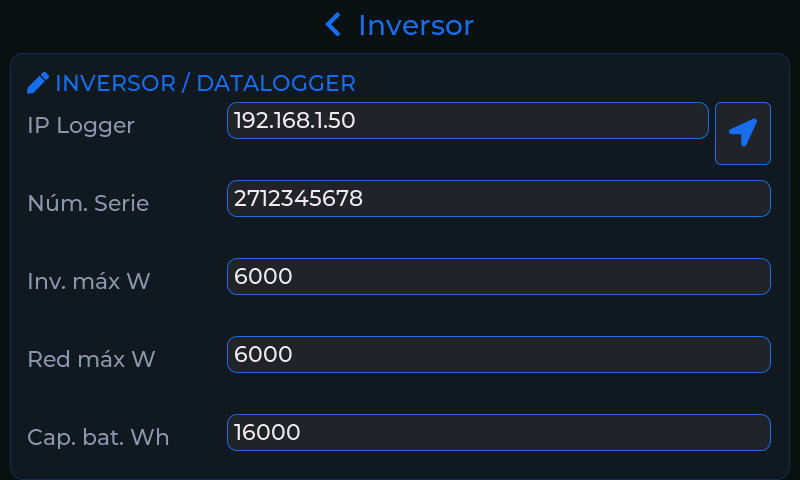
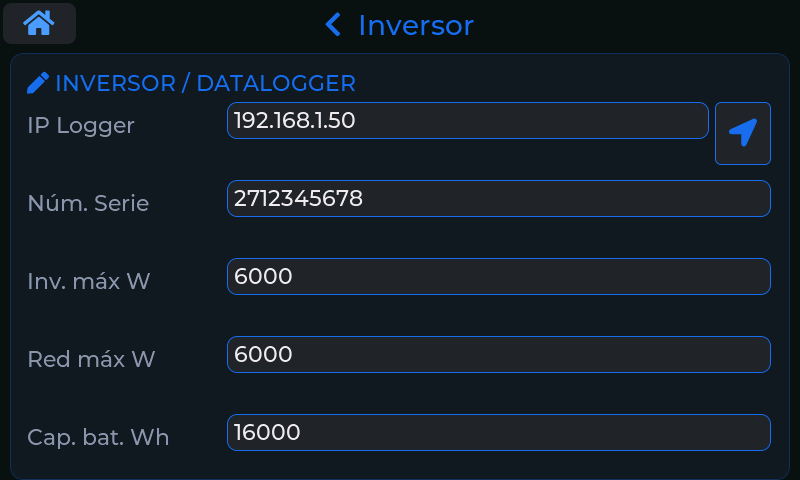
feat: botón de inicio, barra de navegación reordenada y arreglo del doble toque con el teclado
Casa en el extremo izquierdo y calendario en el derecho, con las flechas dentro.
El doble toque ya no se detecta con el teclado abierto. El subtítulo de Estadísticas
se reduce si no cabe. render.sh del simulador falla si no compila.

Claude-Session: https://claude.ai/code/session_01GTcuUXT4PcCQKxnsb58b1A

Changed region(s): [[0.0, 0.0, 0.0938, 0.0938]]

diff --git a/src/stats_screen.cpp b/src/stats_screen.cpp
@@ -160,6 +160,24 @@ static void make_legend_row(lv_obj_t* p, int x, int y, lv_color_t col,
 }
 
 // ── Renderizado central ───────────────────────────────────────────────────
+// El subtítulo de cada columna (título + autosuficiencia / CO2) debe caber en su mitad de la
+// pantalla: si no cabe a tamaño normal se reduce (escala alrededor de su centro) lo justo
+static void fit_subtitle(lv_obj_t* lbl, int col) {
+    // Ancho propio (sin saltar de línea), centrado en su columna y escalado desde su centro
+    lv_obj_set_width(lbl, LV_SIZE_CONTENT);
+    lv_obj_update_layout(lbl);
+    const int w = lv_obj_get_width(lbl), h = lv_obj_get_height(lbl);
+    const int avail = STATS_COL_W - SX(6);
+    // El cuadro sin escalar no debe salirse de la pantalla (provocaría una barra de scroll)
+    int x = col * STATS_COL_W + (STATS_COL_W - w) / 2;
+    if (x > SCREEN_WIDTH - w) x = SCREEN_WIDTH - w;
+    if (x < 0) x = 0;
+    lv_obj_set_x(lbl, x);
+    lv_obj_set_style_transform_pivot_x(lbl, w / 2, 0);
+    lv_obj_set_style_transform_pivot_y(lbl, h / 2, 0);
+    lv_obj_set_style_transform_scale(lbl, w > avail ? avail * 256 / w : 256, 0);
+}
+
 static void render_stats(float pv, float exp_k, float imp,
                           float load, float bchg, float bdis) {
     float pv_direct = load - bdis - imp;
@@ -189,13 +207,14 @@ static void render_stats(float pv, float exp_k, float imp,
         lv_label_set_text_fmt(pro_leg_pct[i], "%.1f%%",   pp);
     }
 
-    // DEYE-35: autosuficiencia junto al título del consumo y CO2 evitado junto al de la producción
+    // DEYE-35: autosuficiencia junto al título del consumo y CO2 ahorrado junto al de la producción
     const float asuf = self_sufficiency_pct(load, imp);
     if (asuf >= 0) lv_label_set_text_fmt(s_lbl_sub[0], "CONSUMO - autosuficiencia %.0f%%", asuf);
     else           lv_label_set_text(s_lbl_sub[0], "CONSUMO");
     const float co2 = co2_avoided_kg(pv);
-    if (co2 >= 0.05f) lv_label_set_text_fmt(s_lbl_sub[1], "PRODUCCI\xC3\x93N - CO2 evitado %.1f kg", co2);
+    if (co2 >= 0.05f) lv_label_set_text_fmt(s_lbl_sub[1], "PRODUCCI\xC3\x93N - CO2 ahorrado %.1f kg", co2);
     else              lv_label_set_text(s_lbl_sub[1], "PRODUCCI\xC3\x93N");
+    for (int c = 0; c < 2; c++) fit_subtitle(s_lbl_sub[c], c);
 
     lv_obj_add_flag(s_no_data, LV_OBJ_FLAG_HIDDEN);
 }
@@ -333,17 +352,17 @@ void stats_screen_init(lv_obj_t* parent) {
     lv_obj_set_style_bg_opa(parent, LV_OPA_COVER, 0);
 
     // ── Barra de navegación ───────────────────────────────────────────────
-    s_btn_prev = nav_btn(parent, SX(2), SY(2), NAV_BTN_W, NAV_BTN_H,
+    // [casa (home_button)][‹] título [›][calendario]
+    s_btn_prev = nav_btn(parent, NAV_PREV_X, SY(2), NAV_BTN_W, NAV_BTN_H,
                         LV_SYMBOL_LEFT, prev_cb);
 
     // Botón →
-    s_btn_next = nav_btn(parent, SCREEN_WIDTH-NAV_BTN_W-SX(2), SY(2),
+    s_btn_next = nav_btn(parent, NAV_NEXT_X, SY(2),
                         NAV_BTN_W, NAV_BTN_H, LV_SYMBOL_RIGHT, next_cb);
 
-    // Botón calendario — entre label y →
-    lv_obj_t* btn_cal = nav_btn(parent,
-        SCREEN_WIDTH - NAV_BTN_W - SX(4) - SX(34), SY(2),
-        SX(34), NAV_BTN_H, LV_SYMBOL_CALENDAR, nullptr);
+    // Botón calendario, en el extremo derecho
+    lv_obj_t* btn_cal = nav_btn(parent, NAV_CAL_X, SY(2),
+        NAV_CAL_W, NAV_BTN_H, LV_SYMBOL_CALENDAR, nullptr);
     lv_obj_add_event_cb(btn_cal, [](lv_event_t*) {
         calendar_show(
             day_epoch_from_offset(s_offset),
@@ -362,9 +381,9 @@ void stats_screen_init(lv_obj_t* parent) {
 
     // Label de fecha — ancho reducido para dejar sitio al botón cal
     s_lbl_date = lv_label_create(parent);
-    lv_obj_set_pos(s_lbl_date, NAV_BTN_W+SX(4), SY(7));
+    lv_obj_set_pos(s_lbl_date, NAV_PREV_X + NAV_BTN_W + SX(4), SY(7));
     lv_obj_set_width(s_lbl_date,
-        SCREEN_WIDTH - 2*NAV_BTN_W - SX(34) - SX(10));
+        NAV_NEXT_X - SX(4) - (NAV_PREV_X + NAV_BTN_W + SX(4)));
     lv_obj_set_style_text_align(s_lbl_date, LV_TEXT_ALIGN_CENTER, 0);
     lv_obj_set_style_text_font(s_lbl_date, &FONT_NORMAL, 0);
     lv_obj_set_style_text_color(s_lbl_date, C_WHITE, 0);

diff --git a/src/main.cpp b/src/main.cpp
@@ -22,6 +22,7 @@
 #include "psram_cache.h"
 #include "backlight.h"
 #include "pagination_dots.h"
+#include "home_button.h"
 #include "screen_banner.h"
 #include "web_alerts.h"
 #include "app_state.h"
@@ -475,6 +476,12 @@ void setup() {
 
     pagination_dots_init(g_main_screen, 5);
 
+    // Botón «inicio»: visible fuera del dashboard (sustituirá al doble toque)
+    home_button_init(g_main_screen, []() {
+        if (g_tileview && g_tile_dash)
+            lv_tileview_set_tile(g_tileview, g_tile_dash, LV_ANIM_ON);
+    });
+
     // DEYE-56: tocar un punto de paginación salta a esa pantalla
     pagination_dots_set_handler([](int idx) {
         lv_obj_t* tiles[] = {g_tile_dash, g_tile_chart,
@@ -493,12 +500,13 @@ void setup() {
             if (tiles[i] == tile) { idx = i; break; }
         }
         pagination_dots_set(idx);
+        home_button_set_dashboard(idx == 0);
 
         // DEYE-56: la primera vez que se sale del dashboard, explicar cómo volver
         if (idx != 0 && !(s_hints & HINT_DOUBLE_TAP)) {
             s_hints |= HINT_DOUBLE_TAP;
             Storage.saveHints(s_hints);
-            ui_toast_show("Toca dos veces la pantalla para volver al inicio");
+            ui_toast_show("Toca la casa o dos veces la pantalla para volver al inicio");
         }
 
         chart_screen_set_active(tile == g_tile_chart);
@@ -655,6 +663,10 @@ void loop() {
     // Se mide desde el primer press hasta el segundo press (< TUNE_DOUBLE_TAP_MS).
     static bool     s_was_pressed  = false;
     static uint32_t s_first_tap_ms = 0;
+    // Teclear en el teclado en pantalla son toques seguidos: no son «doble toque». Se mantiene la
+    // exclusión durante la ventana tras cerrarlo (el OK se procesa al soltar)
+    static uint32_t s_kb_seen_ms = 0;
+    if (config_keyboard_visible()) { s_kb_seen_ms = millis(); s_first_tap_ms = 0; }
 
     lv_indev_t* indev = lv_indev_get_next(nullptr);
     while (indev) {
@@ -664,7 +676,9 @@ void loop() {
                 Backlight.onTouch();
                 if (!s_was_pressed) {   // flanco de subida = nuevo press
                     uint32_t now = millis();
-                    if (s_first_tap_ms && now - s_first_tap_ms < TUNE_DOUBLE_TAP_MS) {
+                    if (s_kb_seen_ms && now - s_kb_seen_ms < TUNE_DOUBLE_TAP_MS) {
+                        s_first_tap_ms = 0;
+                    } else if (s_first_tap_ms && now - s_first_tap_ms < TUNE_DOUBLE_TAP_MS) {
                         // Segundo press dentro de la ventana → doble tap
                         if (g_tileview) {
                             lv_obj_t* cur = lv_tileview_get_tile_active(g_tileview);

diff --git a/src/chart_screen.cpp b/src/chart_screen.cpp
@@ -502,15 +502,15 @@ void chart_screen_init(lv_obj_t* parent) {
     lv_obj_set_scrollbar_mode(parent, LV_SCROLLBAR_MODE_OFF);
 
     // ── Barra de navegación ───────────────────────────────────────────────
-    s_btn_prev = nav_btn(parent, SX(2), SY(2), NAV_BTN_W, NAV_BTN_H,
+    // [casa (home_button)][‹] título [24h][›][calendario]
+    s_btn_prev = nav_btn(parent, NAV_PREV_X, SY(2), NAV_BTN_W, NAV_BTN_H,
                         LV_SYMBOL_LEFT, prev_cb);
-    s_btn_next = nav_btn(parent, SCREEN_WIDTH-NAV_BTN_W-SX(2), SY(2),
+    s_btn_next = nav_btn(parent, NAV_NEXT_X, SY(2),
                         NAV_BTN_W, NAV_BTN_H, LV_SYMBOL_RIGHT, next_cb);
 
-    // Botón calendario
-    const int cal_x = SCREEN_WIDTH-NAV_BTN_W-SX(4)-SX(34);
-    lv_obj_t* btn_cal = nav_btn(parent, cal_x, SY(2),
-        SX(34), NAV_BTN_H, LV_SYMBOL_CALENDAR, nullptr);
+    // Botón calendario, en el extremo derecho
+    lv_obj_t* btn_cal = nav_btn(parent, NAV_CAL_X, SY(2),
+        NAV_CAL_W, NAV_BTN_H, LV_SYMBOL_CALENDAR, nullptr);
     lv_obj_add_event_cb(btn_cal, [](lv_event_t*) {
         calendar_show(
             day_epoch_from_offset(s_offset),
@@ -526,16 +526,16 @@ void chart_screen_init(lv_obj_t* parent) {
             });
     }, LV_EVENT_CLICKED, nullptr);
 
-    // Botón de rango 24h / 7d (DEYE-52), a la izquierda del calendario
-    s_btn_range = nav_btn(parent, cal_x - SX(4) - RANGE_BTN_W, SY(2),
+    // Botón de rango 24h / 7d (DEYE-52), a la izquierda del «›»
+    s_btn_range = nav_btn(parent, NAV_NEXT_X - SX(4) - RANGE_BTN_W, SY(2),
         RANGE_BTN_W, NAV_BTN_H, "24h", range_cb);
     s_lbl_range = lv_obj_get_child(s_btn_range, 0);
     lv_obj_set_style_text_font(s_lbl_range, &FONT_SMALL, 0);
 
     s_lbl_date = lv_label_create(parent);
-    lv_obj_set_pos(s_lbl_date, NAV_BTN_W+SX(6), SY(7));
+    lv_obj_set_pos(s_lbl_date, NAV_PREV_X + NAV_BTN_W + SX(4), SY(7));
     lv_obj_set_width(s_lbl_date,
-        SCREEN_WIDTH - 2*NAV_BTN_W - SX(34) - RANGE_BTN_W - SX(16));
+        NAV_NEXT_X - SX(4) - RANGE_BTN_W - SX(4) - (NAV_PREV_X + NAV_BTN_W + SX(4)));
     lv_label_set_long_mode(s_lbl_date, LV_LABEL_LONG_CLIP);
     lv_obj_set_style_text_align(s_lbl_date, LV_TEXT_ALIGN_CENTER, 0);
     lv_obj_set_style_text_font(s_lbl_date, &FONT_NORMAL, 0);

diff --git a/src/home_button.cpp b/src/home_button.cpp
@@ -1,0 +1,36 @@
+#include "home_button.h"
+#include "ui_constants.h"
+
+static lv_obj_t*        s_btn = nullptr;
+static home_button_cb_t s_cb  = nullptr;
+
+static void home_click_cb(lv_event_t*) {
+    if (s_cb) s_cb();
+}
+
+void home_button_init(lv_obj_t* parent, home_button_cb_t on_tap) {
+    s_cb = on_tap;
+    // En el extremo izquierdo de la barra de navegación (el «‹» va a su derecha)
+    s_btn = lv_button_create(parent);
+    lv_obj_set_pos(s_btn, NAV_HOME_X, SY(2));
+    lv_obj_set_size(s_btn, NAV_BTN_W, NAV_BTN_H);
+    lv_obj_set_style_bg_color(s_btn, C_GBTN, 0);
+    lv_obj_set_style_radius(s_btn, SS(5), 0);
+    lv_obj_set_style_border_width(s_btn, 0, 0);
+    lv_obj_set_style_shadow_width(s_btn, 0, 0);
+
+    lv_obj_t* lbl = lv_label_create(s_btn);
+    lv_label_set_text(lbl, LV_SYMBOL_HOME);
+    lv_obj_set_style_text_font(lbl, &FONT_NORMAL, 0);
+    lv_obj_set_style_text_color(lbl, lv_color_hex(0x4A9EFF), 0);
+    lv_obj_center(lbl);
+
+    lv_obj_add_event_cb(s_btn, home_click_cb, LV_EVENT_CLICKED, nullptr);
+    lv_obj_add_flag(s_btn, LV_OBJ_FLAG_HIDDEN);   // se empieza en el dashboard
+}
+
+void home_button_set_dashboard(bool on_dashboard) {
+    if (!s_btn) return;
+    if (on_dashboard) lv_obj_add_flag(s_btn, LV_OBJ_FLAG_HIDDEN);
+    else              lv_obj_remove_flag(s_btn, LV_OBJ_FLAG_HIDDEN);
+}

diff --git a/src/ui_constants.h b/src/ui_constants.h
@@ -35,6 +35,13 @@
 #define NAV_H             (FONT_NORMAL_SIZE + SY(10))
 #define NAV_BTN_W         SX(44)
 #define NAV_BTN_H         (NAV_H - 4)
+// Disposición de la barra (gráfica, estadísticas, perfil): [casa][‹] título [›][calendario].
+// Casa y calendario en los extremos; las flechas, dentro.
+#define NAV_CAL_W         SX(34)
+#define NAV_HOME_X        SX(2)
+#define NAV_PREV_X        (SX(2) + NAV_BTN_W + SX(4))
+#define NAV_CAL_X         (SCREEN_WIDTH - NAV_CAL_W - SX(2))
+#define NAV_NEXT_X        (NAV_CAL_X - SX(4) - NAV_BTN_W)
 
 // ── Barra superior del dashboard ──────────────────────────────────────────
 #define TOP_BAR_H         (FONT_NORMAL_SIZE + SY(8))

diff --git a/src/config_screen.cpp b/src/config_screen.cpp
@@ -416,6 +416,10 @@ static void scan_btn_cb(lv_event_t* /*e*/) {
 // ═════════════════════════════════════════════════════════════════════════
 // Teclado
 // ═════════════════════════════════════════════════════════════════════════
+bool config_keyboard_visible() {
+    return kb && !lv_obj_has_flag(kb, LV_OBJ_FLAG_HIDDEN);
+}
+
 static void kb_event_cb(lv_event_t* e) {
     if (lv_event_get_code(e) == LV_EVENT_READY ||
         lv_event_get_code(e) == LV_EVENT_CANCEL)

diff --git a/src/home_button.h b/src/home_button.h
@@ -1,0 +1,12 @@
+#pragma once
+#include <lvgl.h>
+
+// Botón «inicio» (icono de casa) en la esquina superior izquierda, a la izquierda del botón
+// de navegación «‹» de cada pantalla. Solo se ve fuera del dashboard y lleva a él al tocarlo.
+// Es hijo de la pantalla principal (no de layer_top): lo tapan el modo reloj, los diálogos y
+// el asistente, igual que a los puntos de paginación.
+typedef void (*home_button_cb_t)();
+
+void home_button_init(lv_obj_t* parent, home_button_cb_t on_tap);
+// `on_dashboard`: la pantalla activa es el dashboard (el botón se oculta)
+void home_button_set_dashboard(bool on_dashboard);

diff --git a/src/energy_profile.cpp b/src/energy_profile.cpp
@@ -483,7 +483,7 @@ void energy_profile_init(lv_obj_t* tile) {
     lv_obj_remove_flag(nav, LV_OBJ_FLAG_SCROLLABLE);
 
     s_btn_prev = make_nav_btn(nav, LV_SYMBOL_LEFT);
-    lv_obj_set_pos(s_btn_prev, 0, (NAV_H - NAV_BTN_H) / 2);
+    lv_obj_set_pos(s_btn_prev, NAV_PREV_X, (NAV_H - NAV_BTN_H) / 2);   // a la derecha del botón de casa
     lv_obj_add_event_cb(s_btn_prev, [](lv_event_t*) {
         s_offset--;
         ep_reload();

diff --git a/src/config_screen.h b/src/config_screen.h
@@ -3,3 +3,4 @@
 
 void config_screen_init(lv_obj_t* parent);
 void config_screen_tick();   // llamar desde loop() para refrescar señal/IP
+bool config_keyboard_visible();   // el teclado en pantalla está abierto

diff --git a/CHANGELOG.md b/CHANGELOG.md
@@ -6,6 +6,19 @@ El formato sigue [Keep a Changelog](https://keepachangelog.com/es-ES/1.1.0/) y e
 
 ## [Unreleased]
 
+### Añadido
+
+- **Botón «inicio» (casa) en las pantallas:** un icono de casa en el extremo izquierdo de la barra superior lleva al panel principal desde la gráfica, estadísticas, perfil de energía y configuración (se oculta en el panel). En gráfica y estadísticas el calendario pasa al extremo derecho y las flechas «‹» «›» quedan dentro: `[casa][‹] título [›][calendario]`. El doble toque se mantiene por ahora; la idea es retirarlo si el botón funciona bien. El aviso de la primera vez lo menciona.
+
+### Cambiado
+
+- **Vista de flujo de energía:** la batería pasa a la izquierda y la red a la derecha (solar sigue arriba).
+- **«CO2 ahorrado» en lugar de «CO2 evitado»** en la pantalla de estadísticas, la web y Telegram. En Estadísticas, si el subtítulo de la columna no cabe a su tamaño normal se reduce lo justo para que quepa.
+
+### Corregido
+
+- **Escribir en el teclado de Configuración podía devolver a la pantalla de inicio:** dos teclas seguidas en menos de 600 ms contaban como el «doble toque». Ahora no se detecta el doble toque con el teclado abierto ni durante la ventana siguiente a cerrarlo.
+
 ## [v4.0.0] - 2026-10-18
 
 ### Añadido
